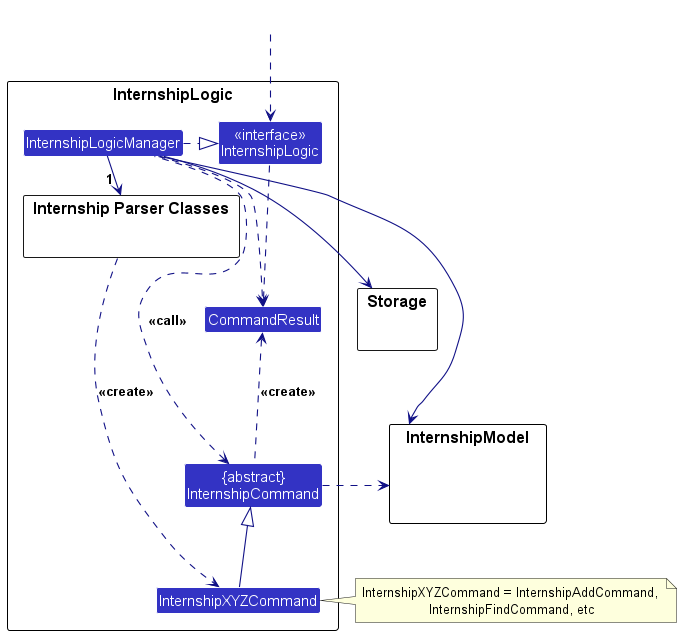
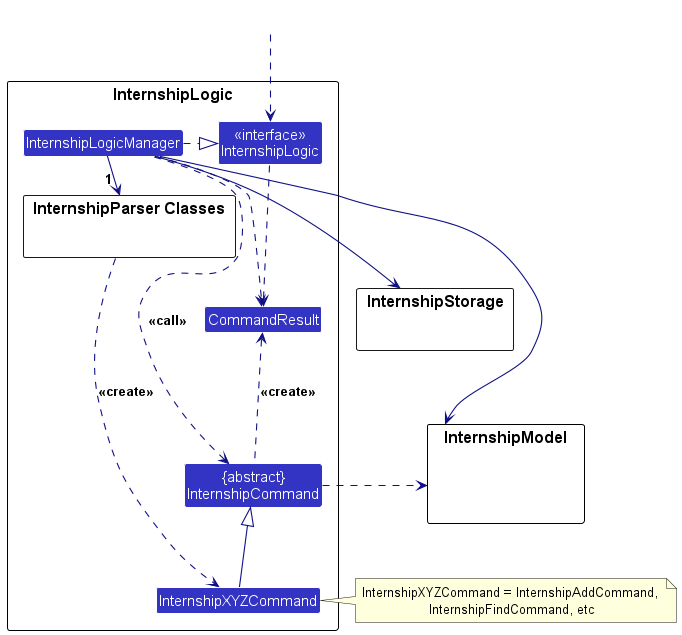
Change all address book to internship data

diff --git a/docs/DeveloperGuide.md b/docs/DeveloperGuide.md
@@ -66,7 +66,7 @@ The bulk of the app's work is done by the following four components:
 * [**`UI`**](#ui-component): The UI of the App.
 * [**`InternshipLogic`**](#internshiplogic-component): The command executor.
 * [**`InternshipModel`**](#internshipmodel-component): Holds the data of the App in memory.
-* [**`Storage`**](#storage-component): Reads data from, and writes data to, the hard disk.
+* [**`InternshipStorage`**](#internshipstorage-component): Reads data from, and writes data to, the hard disk.
 
 [**`Commons`**](#common-classes) represents a collection of classes used by multiple other components.
 
@@ -79,7 +79,7 @@ The *Sequence Diagram* below shows how the components interact with each other f
 Each of the four main components (also shown in the diagram above),
 
 * defines its *API* in an `interface` with the same name as the Component.
-* implements its functionality using a concrete `{Component Name}Manager` class (which follows the corresponding API `interface` mentioned in the previous point.
+* implements its functionality using a concrete `Internship{Component Name}Manager` class (which follows the corresponding API `interface` mentioned in the previous point.
 
 For example, the `InternshipLogic` component defines its API in the `InternshipLogic.java` interface and implements its functionality using the `InternshipLogicManager.java` class which follows the `InternshipLogic` interface. Other components interact with a given component through its interface rather than the concrete class (reason: to prevent outside component's being coupled to the implementation of a component), as illustrated in the (partial) class diagram below.
 
@@ -100,9 +100,9 @@ The `UI` component uses the JavaFx UI framework. The layout of these UI parts ar
 The `UI` component,
 
 * executes user commands using the `InternshipLogic` component.
-* listens for changes to `Model` data so that the UI can be updated with the modified data.
+* listens for changes to `InternshipModel` data so that the UI can be updated with the modified data.
 * keeps a reference to the `InternshipLogic` component, because the `UI` relies on the `InternshipLogic` to execute commands.
-* depends on some classes in the `Model` component, as it displays `Person` object residing in the `Model`.
+* depends on some classes in the `InternshipModel` component, as it displays `Internship` object residing in the `InternshipModel`.
 
 #### InternshipLogic component
 
@@ -116,15 +116,15 @@ The sequence diagram below illustrates the interactions within the `InternshipLo
 
 ![Interactions Inside the InternshipLogic Component for the `delete 1` Command](images/DeleteSequenceDiagram.png)
 
-<div markdown="span" class="alert alert-info">:information_source: **Note:** The lifeline for `DeleteCommandParser` should end at the destroy marker (X) but due to a limitation of PlantUML, the lifeline continues till the end of diagram.
+<div markdown="span" class="alert alert-info">:information_source: **Note:** The lifeline for `InternshipDeleteCommandParser` should end at the destroy marker (X) but due to a limitation of PlantUML, the lifeline continues till the end of diagram.
 </div>
 
 How the `InternshipLogic` component works:
 
 1. When `InternshipLogic` is called upon to execute a command, it is passed to an `InternshipDataParser` object which in turn creates a parser that matches the command (e.g., `DeleteCommandParser`) and uses it to parse the command.
-1. This results in a `Command` object (more precisely, an object of one of its subclasses e.g., `DeleteCommand`) which is executed by the `InternshipLogicManager`.
-1. The command can communicate with the `Model` when it is executed (e.g. to delete a person).<br>
-   Note that although this is shown as a single step in the diagram above (for simplicity), in the code it can take several interactions (between the command object and the `Model`) to achieve.
+1. This results in a `InternshipCommand` object (more precisely, an object of one of its subclasses e.g., `InternshipDeleteCommand`) which is executed by the `InternshipLogicManager`.
+1. The command can communicate with the `InternshipModel` when it is executed (e.g. to delete a person).<br>
+   Note that although this is shown as a single step in the diagram above (for simplicity), in the code it can take several interactions (between the command object and the `InternshipModel`) to achieve.
 1. The result of the command execution is encapsulated as a `CommandResult` object which is returned back from `InternshipLogic`.
 
 Here are the other classes in `InternshipLogic` (omitted from the class diagram above) that are used for parsing a user command:
@@ -132,8 +132,8 @@ Here are the other classes in `InternshipLogic` (omitted from the class diagram 
 <img src="images/ParserClasses.png" width="600"/>
 
 How the parsing works:
-* When called upon to parse a user command, the `InternshipDataParser` class creates an `XYZCommandParser` (`XYZ` is a placeholder for the specific command name e.g., `AddCommandParser`) which uses the other classes shown above to parse the user command and create a `XYZCommand` object (e.g., `AddCommand`) which the `InternshipDataParser` returns back as a `Command` object.
-* All `XYZCommandParser` classes (e.g., `AddCommandParser`, `DeleteCommandParser`, ...) inherit from the `Parser` interface so that they can be treated similarly where possible e.g, during testing.
+* When called upon to parse a user command, the `InternshipDataParser` class creates an `InternshipXYZCommandParser` (`XYZ` is a placeholder for the specific command name e.g., `InternshipAddCommandParser`) which uses the other classes shown above to parse the user command and create a `InternshipXYZCommand` object (e.g., `InternshipAddCommand`) which the `InternshipDataParser` returns back as a `InternshipCommand` object.
+* All `InternshipXYZCommandParser` classes (e.g., `InternshipAddCommandParser`, `InternshipDeleteCommandParser`, ...) inherit from the `InternshipParser` interface so that they can be treated similarly where possible e.g, during testing.
 
 #### InternshipModel component
 **API** : [`InternshipModel.java`](https://github.com/AY2324S2-CS2103T-W11-1/tp/blob/master/src/main/java/seedu/address/model/InternshipModel.java)
@@ -141,7 +141,7 @@ How the parsing works:
 <img src="images/InternshipModelClassDiagram.png" width="450" />
 
 
-The `Model` component,
+The `InternshipModel` component,
 
 * stores the internship data i.e., all `Internship` objects (which are contained in a `UniqueInternshipList` object).
 * stores the currently 'selected' `Internship` objects (e.g., results of a search query) as a separate _filtered_ list which is exposed to outsiders as an unmodifiable `ObservableList<Internship>` that can be 'observed' e.g. the UI can be bound to this list so that the UI automatically updates when the data in the list change.
@@ -157,11 +157,11 @@ The `Model` component,
 The `InternshipStorage` component,
 * can save both internship data and user preference data in JSON format, and read them back into corresponding objects.
 * inherits from both `InternshipDataStorage` and `InternshipUserPrefsStorage`, which means it can be treated as either one (if only the functionality of only one is needed).
-* depends on some classes in the `InternshipModel` component (because the `Storage` component's job is to save/retrieve objects that belong to the `InternshipModel`)
+* depends on some classes in the `InternshipModel` component (because the `InternshipStorage` component's job is to save/retrieve objects that belong to the `InternshipModel`)
 
 #### Common classes
 
-Classes used by multiple components are in the `seedu.addressbook.commons` package.
+Classes used by multiple components are in the `seedu.address.commons` package.
 
 --------------------------------------------------------------------------------------------------------------------
 
@@ -175,11 +175,11 @@ This section describes some noteworthy details on how certain features are imple
 
 The proposed undo/redo mechanism is facilitated by `VersionedInternshipData`. It extends `InternshipData` with an undo/redo history, stored internally as an `internshipDataStateList` and `currentStatePointer`. Additionally, it implements the following operations:
 
-* `VersionedInternshipData#commit()` — Saves the current address book state in its history.
-* `VersionedInternshipData#undo()` — Restores the previous address book state from its history.
-* `VersionedInternshipData#redo()` — Restores a previously undone address book state from its history.
+* `VersionedInternshipData::commit` — Saves the current internship data state in its history.
+* `VersionedInternshipData::undo` — Restores the previous internship data state from its history.
+* `VersionedInternshipData::redo` — Restores a previously undone internship data state from its history.
 
-These operations are exposed in the `InternshipModel` interface as `InternshipModel#commitInternshipData()`, `InternshipModel#undoInternshipData()` and `InternshipModel#redoInternshipData()` respectively.
+These operations are exposed in the `InternshipModel` interface as `InternshipModel::commitInternshipData`, `InternshipModel::undoInternshipData` and `InternshipModel::redoInternshipData` respectively.
 
 Given below is an example usage scenario and how the undo/redo mechanism behaves at each step.
 
@@ -187,23 +187,25 @@ Step 1. The user launches the application for the first time. The `VersionedInte
 
 ![UndoRedoState0](images/UndoRedoState0.png)
 
-Step 2. The user executes `delete 5` command to delete the 5th person in the internship data. The `delete` command calls `InternshipModel#commitInternshipData()`, causing the modified state of the internship data after the `delete 5` command executes to be saved in the `internshipDataStateList`, and the `currentStatePointer` is shifted to the newly inserted internship data state.
+Step 2. The user executes `delete 5` command to delete the 5th internship in the internship data. The `delete` command calls `InternshipModel::commitInternshipData`, causing the modified state of the internship data after the `delete 5` command executes to be saved in the `internshipDataStateList`, and the `currentStatePointer` is shifted to the newly inserted internship data state.
 
 ![UndoRedoState1](images/UndoRedoState1.png)
 
-Step 3. The user executes `add n/David …` to add a new internship. The `add` command also calls `InternshipModel#commitInternshipData()`, causing another modified internship data state to be saved into the `internshipDataStateList`.
+Step 3. The user executes `add /com Facebook …` to add a new internship. The `add` command also calls `InternshipModel::commitInternshipData`, causing another modified internship data state to be saved into the `internshipDataStateList`.
 
 ![UndoRedoState2](images/UndoRedoState2.png)
 
-<div markdown="span" class="alert alert-info">:information_source: **Note:** If a command fails its execution, it will not call `InternshipModel#commitInternshipData()`, so the address book state will not be saved into the `internshipDataStateList`.
+<div markdown="span" class="alert alert-info">:information_source: **Note:** If a command fails its execution, it will not call `InternshipModel::commitInternshipData`, so the internship data state will not be saved into the `internshipDataStateList`.
 
 </div>
 
-Step 4. The user now decides that adding the internship was a mistake, and decides to undo that action by executing the `undo` command. The `undo` command will call `InternshipModel#undoInternshipData()`, which will shift the `currentStatePointer` once to the left, pointing it to the previous internship data state, and restores the internship data to that state.
+Step 4. The user now decides that adding the internship was a mistake, and decides to undo that action by executing the `undo` command. The `undo` command will call `InternshipModel::undoInternshipData`, which will shift the `currentStatePointer` once to the left, pointing it to the previous internship data state, and restores the internship data to that state.
 
 ![UndoRedoState3](images/UndoRedoState3.png)
 
-<div markdown="span" class="alert alert-info">:information_source: **Note:** If the `currentStatePointer` is at index 0, pointing to the initial InternshipData state, then there are no previous InternshipData states to restore. The `undo` command uses `InternshipModel#canUndoInternshipData()` to check if this is the case. If so, it will return an error to the user rather
+<div markdown="span" class="alert alert-info">
+
+:information_source: **Note:** If the `currentStatePointer` is at index 0, pointing to the initial InternshipData state, then there are no previous InternshipData states to restore. The `undo` command uses `InternshipModel::canUndoInternshipData` to check if this is the case. If so, it will return an error to the user rather
 than attempting to perform the undo.
 
 </div>
@@ -212,25 +214,25 @@ The following sequence diagram shows how an undo operation goes through the `Int
 
 ![UndoSequenceDiagram](images/UndoSequenceDiagram-Logic.png)
 
-<div markdown="span" class="alert alert-info">:information_source: **Note:** The lifeline for `UndoCommand` should end at the destroy marker (X) but due to a limitation of PlantUML, the lifeline reaches the end of diagram.
+<div markdown="span" class="alert alert-info">:information_source: **Note:** The lifeline for `InternshipUndoCommand` should end at the destroy marker (X) but due to a limitation of PlantUML, the lifeline reaches the end of diagram.
 
 </div>
 
-Similarly, how an undo operation goes through the `Model` component is shown below:
+Similarly, how an undo operation goes through the `InternshipModel` component is shown below:
 
 ![UndoSequenceDiagram](images/UndoSequenceDiagram-Model.png)
 
-The `redo` command does the opposite — it calls `InternshipModel#redoInternshipData()`, which shifts the `currentStatePointer` once to the right, pointing to the previously undone state, and restores the internship data to that state.
+The `redo` command does the opposite — it calls `InternshipModel::redoInternshipData`, which shifts the `currentStatePointer` once to the right, pointing to the previously undone state, and restores the internship data to that state.
 
 <div markdown="span" class="alert alert-info">:information_source: **Note:** If the `currentStatePointer` is at index `internshipDataStateList.size() - 1`, pointing to the latest internship data state, then there are no undone InternshipData states to restore. The `redo` command uses `InternshipModel#canRedoInternshipData()` to check if this is the case. If so, it will return an error to the user rather than attempting to perform the redo.
 
 </div>
 
-Step 5. The user then decides to execute the command `list`. Commands that do not modify the internship data, such as `list`, will usually not call `InternshipModel#commitInternshipData()`, `InternshipModel#undoInternshipData()` or `InternshipModel#redoInternshipData()`. Thus, the `internshipDataStateList` remains unchanged.
+Step 5. The user then decides to execute the command `list`. Commands that do not modify the internship data, such as `list`, will usually not call `InternshipModel::commitInternshipData`, `InternshipModel::undoInternshipData` or `InternshipModel::redoInternshipData`. Thus, the `internshipDataStateList` remains unchanged.
 
 ![UndoRedoState4](images/UndoRedoState4.png)
 
-Step 6. The user executes `clear`, which calls `InternshipModel#commitInternshipData()`. Since the `currentStatePointer` is not pointing at the end of the `internshipDataStateList`, all internship data states after the `currentStatePointer` will be purged. Reason: It no longer makes sense to redo the `add n/David …` command. This is the behavior that most modern desktop applications follow.
+Step 6. The user executes `clear`, which calls `InternshipModel::commitInternshipData`. Since the `currentStatePointer` is not pointing at the end of the `internshipDataStateList`, all internship data states after the `currentStatePointer` will be purged. Reason: It no longer makes sense to redo the `add /com Facebook …` command. This is the behavior that most modern desktop applications follow.
 
 ![UndoRedoState5](images/UndoRedoState5.png)
 
@@ -248,7 +250,7 @@ The following activity diagram summarizes what happens when a user executes a ne
 
 * **Alternative 2:** Individual command knows how to undo/redo by
   itself.
-    * Pros: Will use less memory (e.g. for `delete`, just save the person being deleted).
+    * Pros: Will use less memory (e.g. for `delete`, just save the internshipdata being deleted).
     * Cons: We must ensure that the implementation of each individual command are correct.
 
 _{more aspects and alternatives to be added}_
